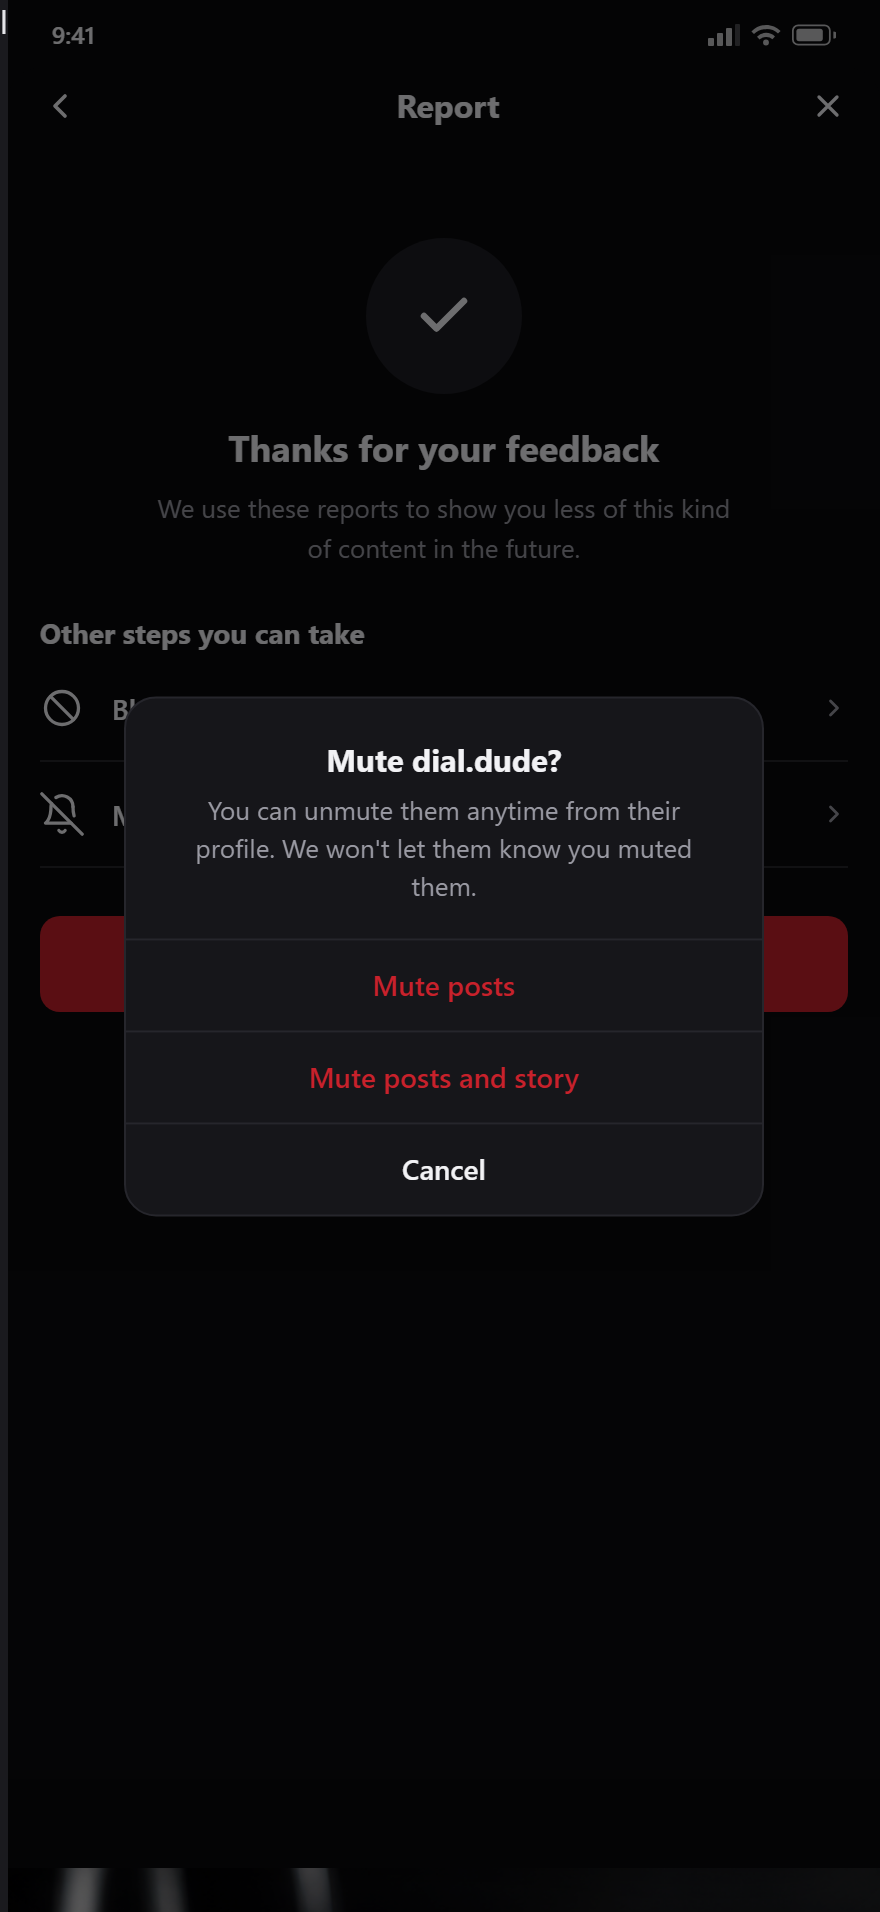
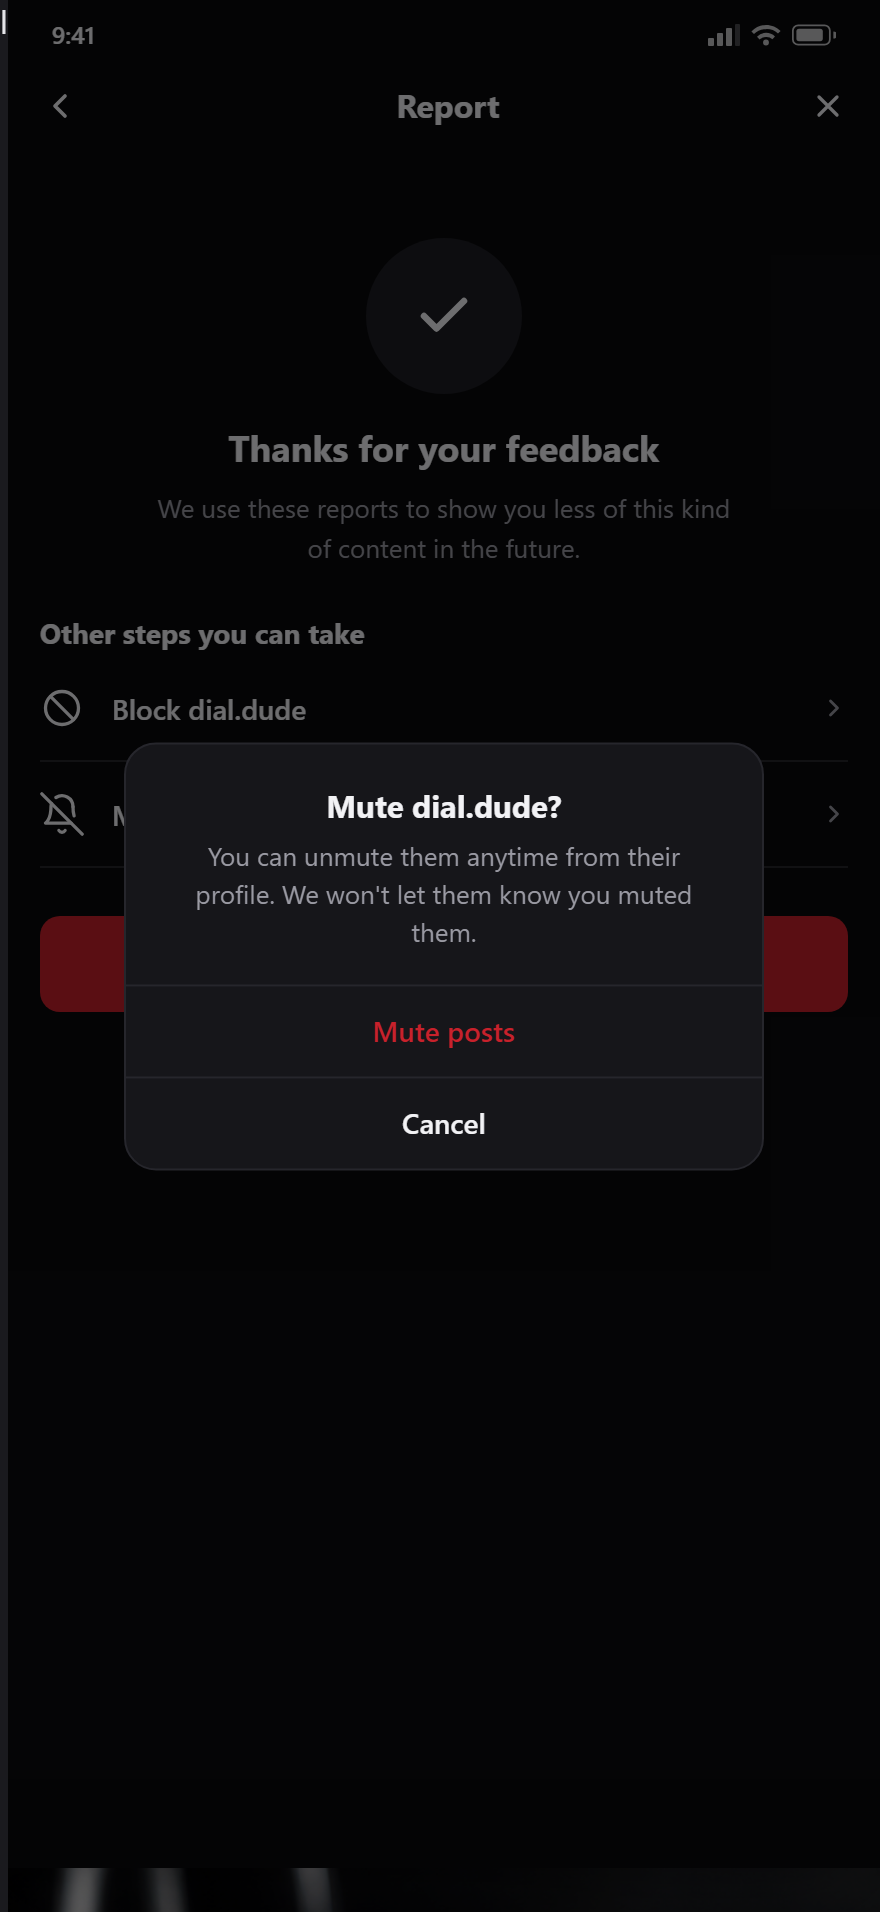
feat(PROFILE-005): report nav IG-style — Select-a-post picker, X closes flow, < slides back
- Mute dialog back to single "Mute posts" option (no story in TukDaeng)
- "Select a post to report": < back + X + radio circles on tiles + Next
  button (disabled until a post is picked), per latest IG reference
- X now closes the whole report stack back to the profile/feed that
  opened the '...' menu; '<' pops one step — current page slides out
  right while the previous page stays underneath (rpPush/rpBack/rpClose
  + .pg-ghost under/exit clones)
- _verify_pfm 59/59 PASS; _verify_profile/_pfl/_pfg/_pfp 0 failed,
  0 console errors

Generated with [Devin](https://devin.ai)

Changed region(s): [[0.2148, 0.3703, 0.767, 0.6172], [0.1227, 0.3703, 0.1841, 0.4012]]

diff --git a/Prototypes/fo-flow/index.html b/Prototypes/fo-flow/index.html
@@ -1526,6 +1526,17 @@ l<!DOCTYPE html>
   /* nav-tab swap (IG behavior) — bottom-nav pages replace instantly, no slide */
   .page-sub.pg-swap { transition: none; }
   .screen.sub-open .page-sub.pg-swap { animation: none; }
+  /* report stack illusion (IG): a cloned page keeps the previous view visible
+     while the new page slides in on top / the popped page slides out */
+  .screen .pg-ghost {
+    position: absolute; top: 34px; bottom: 22px; left: 0; right: 0;
+    background: var(--bg); transform: none; animation: none;
+    pointer-events: none; z-index: 31;
+  }
+  .screen .pg-ghost.pg-out-r { animation: pgOut .3s ease forwards; z-index: 33; }
+  .screen .pg-ghost.pg-out-d { animation: pgDown .3s ease forwards; z-index: 33; }
+  @keyframes pgOut { to { transform: translateX(100%); } }
+  @keyframes pgDown { to { transform: translateY(110%); } }
   .sub-scroll { flex: 1; overflow-y: auto; scrollbar-width: none; }
   .sub-scroll::-webkit-scrollbar { display: none; }
   /* ============ POST VIEWER (IG search-result viewer — vertical swipe through results) ============ */
@@ -1913,6 +1924,20 @@ l<!DOCTYPE html>
   .rp-step .pm-chev { color: var(--muted); display: flex; flex-shrink: 0; }
   .rp-step .rp-ck { color: #3ddc84; display: flex; flex-shrink: 0; } /* IG: green check on completed steps */
   .rp-step[disabled] { cursor: default; }
+  /* Select a post — radio circle on each tile + pinned Next bar (IG) */
+  .pf-tile.rp-tile { position: relative; }
+  .rp-sel {
+    position: absolute; top: 8px; right: 8px; width: 22px; height: 22px;
+    border-radius: 50%; border: 2px solid #fff; background: rgba(0,0,0,.35);
+    display: flex; align-items: center; justify-content: center; color: #fff;
+  }
+  .rp-tile.on .rp-sel { background: var(--red); border-color: var(--red); }
+  .rp-next {
+    flex-shrink: 0; margin: 8px 14px 14px; border: none; border-radius: 10px;
+    padding: 14px; background: var(--red); color: #fff;
+    font-family: var(--font-main); font-size: 14.5px; font-weight: 600; cursor: pointer;
+  }
+  .rp-next[disabled] { opacity: .45; cursor: default; }
   .rp-done {
     width: 100%; border: none; border-radius: 10px; padding: 14px; margin-top: 24px;
     background: var(--red); color: #fff; font-family: var(--font-main);
@@ -4946,7 +4971,6 @@ function muteDlgHTML(seller) {
     <div class="dlg-q">Mute ${seller}?</div>
     <div class="dlg-desc">You can unmute them anytime from their profile. We won't let them know you muted them.</div>
     <button class="dlg-btn danger dlg-mute-go">Mute posts</button>
-    <button class="dlg-btn danger dlg-mute-go">Mute posts and story</button>
     <button class="dlg-btn dlg-cancel">Cancel</button>`;
 }
 function resetDlgHTML() {
@@ -4978,7 +5002,7 @@ function renderSub(scr) {
   const oldBar = el.querySelector(".pf-tabs");
   if (oldBar) scr._pfTabSl = oldBar.scrollLeft; /* keep tab-bar position across re-renders */
   el.innerHTML = subHTML(st[st.length - 1], scr);
-  el.classList.toggle("pg-up", (st[st.length - 1] || "").startsWith("report"));
+  el.classList.toggle("pg-up", (st[st.length - 1] || "").startsWith("report:pick")); /* only the picker slides up — deeper report pages slide from the right */
   el.classList.toggle("pg-swap", !!scr._subSwap);
   const q = el.querySelector(".sr-q, .svd-q");
   if (q) { q.focus(); q.setSelectionRange(q.value.length, q.value.length); }
@@ -5013,6 +5037,48 @@ function subBack(scr) {
   }
   st.pop();
   if (st.length) renderSub(scr);
+  else scr.classList.remove("sub-open");
+}
+/* PROFILE-005 — report pages navigate like IG: a new page slides in from the
+   right while the previous one stays put underneath (ghost clone), "<" slides
+   the current page back out the same way, "X" closes the whole report stack */
+function rpPush(scr, name) {
+  const el = scr.querySelector(".page-sub");
+  if ((scr._subStack || []).length) {
+    const g = el.cloneNode(true);
+    g.className = "pg-ghost"; /* own class — keeps selectors/queries on the real page clean */
+    el.insertAdjacentElement("afterend", g);
+    setTimeout(() => g.remove(), 340);
+  }
+  pushSub(scr, name);
+  el.style.animation = "none"; void el.offsetWidth; el.style.animation = ""; /* restart slide-in */
+}
+function rpBack(scr) {
+  const st = scr._subStack || [];
+  if (st.length > 1) {
+    const el = scr.querySelector(".page-sub");
+    const g = el.cloneNode(true);
+    g.className = "pg-ghost pg-out-r"; /* exiting page rides on top */
+    el.insertAdjacentElement("afterend", g);
+    setTimeout(() => g.remove(), 340);
+    st.pop();
+    scr._subSwap = true; renderSub(scr); scr._subSwap = false; /* previous page stays put — no re-slide */
+  } else {
+    st.pop();
+    scr.classList.remove("sub-open"); /* last page slides itself out via the resting transform */
+  }
+}
+function rpClose(scr) {
+  const el = scr.querySelector(".page-sub");
+  if (scr.classList.contains("sub-open")) {
+    const g = el.cloneNode(true);
+    g.className = "pg-ghost " + (el.classList.contains("pg-up") ? "pg-out-d" : "pg-out-r");
+    el.insertAdjacentElement("afterend", g);
+    setTimeout(() => g.remove(), 340);
+  }
+  const st = scr._subStack || [];
+  while (st.length && (st[st.length - 1] || "").startsWith("report")) st.pop(); /* keep whatever opened the report flow (profile etc.) */
+  if (st.length) { scr._subSwap = true; renderSub(scr); scr._subSwap = false; }
   else scr.classList.remove("sub-open");
 }
 function subPostRows(posts, label, cls) {
@@ -6944,7 +7010,7 @@ function subHTML(name, scr) {
   if (name === "ni") return head("Not interested") + `<div class="sub-scroll">${subPostRows(POSTS.filter(p => p.ni), "Restore", "m-restore")}</div>`;
   /* full-page report view (IG-style) — opened from "..." menu or the uncomfortable ack card */
   if (name === "report" || name === "report:user") return `
-    <div class="detail-head rp-head"><span class="detail-title">Report</span><button class="icon-btn rp-x sub-x">${I.x(18)}</button></div>
+    <div class="detail-head rp-head"><button class="icon-btn rp-back sub-back">${I.back(20)}</button><span class="detail-title">Report</span><button class="icon-btn rp-x sub-x">${I.x(18)}</button></div>
     <div class="pm-rp-scroll">
       <div class="pm-rp-q">Why are you reporting this ${name === "report:user" ? "account" : "post"}?</div>
       <div class="pm-rp-desc">Your report is anonymous. If someone is in immediate danger, call the local emergency services - don't wait.</div>
@@ -6986,15 +7052,16 @@ function subHTML(name, scr) {
       <button class="rp-done">Done</button>
     </div>`;
   }
-  /* pick one of their posts -> post reasons */
+  /* pick one of their posts -> Next -> post reasons (IG: radio circle + pinned Next) */
   if (name.startsWith("report:posts:")) {
-    const u = name.slice(13);
+    const u = name.slice(13), sel = scr._rpSel || "";
     return `
-    <div class="detail-head rp-head"><span class="detail-title">Select a post to report</span><button class="icon-btn rp-x sub-x">${I.x(18)}</button></div>
-    <div class="pm-rp-scroll" style="padding:0 0 28px">
+    <div class="detail-head rp-head"><button class="icon-btn rp-back sub-back">${I.back(20)}</button><span class="detail-title">Select a post</span><button class="icon-btn rp-x sub-x">${I.x(18)}</button></div>
+    <div class="pm-rp-scroll" style="padding:0 0 8px">
       <div class="pf-grid">${pfTabPosts(u, "all").map(p => `
-        <button class="pf-tile rp-tile" data-pid="${p.id}"><img src="${p.photos[0]}" alt="" loading="lazy"></button>`).join("")}</div>
-    </div>`;
+        <button class="pf-tile rp-tile${sel === p.id ? " on" : ""}" data-pid="${p.id}"><img src="${p.photos[0]}" alt="" loading="lazy"><span class="rp-sel">${sel === p.id ? I.check(12) : ""}</span></button>`).join("")}</div>
+    </div>
+    <button class="rp-next"${sel ? "" : " disabled"}>Next</button>`;
   }
 
   /* PROFILE-001 — profile pages stack like any other sub page */
@@ -7754,8 +7821,8 @@ document.getElementById("stage").addEventListener("click", e => {
   const rpOpt = e.target.closest(".rp-opt");
   if (rpOpt) {
     const scr = rpOpt.closest(".screen"), u = rpOpt.dataset.u;
-    if (rpOpt.dataset.rp === "acct") pushSub(scr, "report:user");
-    else pushSub(scr, "report:" + rpOpt.dataset.rp + ":" + u);
+    if (rpOpt.dataset.rp === "acct") rpPush(scr, "report:user");
+    else { scr._rpSel = ""; rpPush(scr, "report:" + rpOpt.dataset.rp + ":" + u); }
     return;
   }
   /* PROFILE-005 — picking a reason opens the IG "Thanks for your feedback" page
@@ -7764,7 +7831,7 @@ document.getElementById("stage").addEventListener("click", e => {
   if (pmDone) {
     const scr = pmDone.closest(".screen");
     const u = scr.dataset.rpUser || "";
-    if (u) { pushSub(scr, "report:done:" + u); return; }
+    if (u) { rpPush(scr, "report:done:" + u); return; }
     scr.classList.remove("pm-open", "sub-open");
     scr._subStack = [];
     toast("Report submitted · thanks for letting us know");
@@ -7899,8 +7966,15 @@ document.getElementById("stage").addEventListener("click", e => {
   if (setBtn) { openSub(setBtn.closest(".screen"), "settings"); return; }
   const subNav = e.target.closest("[data-sub]");
   if (subNav) { pushSub(subNav.closest(".screen"), subNav.dataset.sub); return; }
-  const subBk = e.target.closest(".sub-back, .sub-x");
-  if (subBk) { subBack(subBk.closest(".screen")); return; }
+  const subBk = e.target.closest(".sub-back");
+  if (subBk) {
+    const scr = subBk.closest(".screen");
+    if (((scr._subStack || []).at(-1) || "").startsWith("report")) rpBack(scr); /* report pages slide back out right */
+    else subBack(scr);
+    return;
+  }
+  const subX = e.target.closest(".sub-x");
+  if (subX) { rpClose(subX.closest(".screen")); return; } /* X closes the whole report stack, keeping the page that opened it */
   const subReset = e.target.closest('[data-dlg="reset"]');
   if (subReset) { openDlg(subReset.closest(".screen"), resetDlgHTML()); return; }
   const sens = e.target.closest("[data-sens]");
@@ -8203,8 +8277,9 @@ document.getElementById("stage").addEventListener("click", e => {
   const pfTile = e.target.closest(".pf-tile");
   if (pfTile) {
     const scr = pfTile.closest(".screen");
-    if (pfTile.classList.contains("rp-tile")) { /* PROFILE-005 — report post picker -> post reasons */
-      pushSub(scr, "report");
+    if (pfTile.classList.contains("rp-tile")) { /* PROFILE-005 — select a post to report: pick then Next (IG) */
+      scr._rpSel = pfTile.dataset.pid;
+      scr._subSwap = true; renderSub(scr); scr._subSwap = false; /* mark in place, no re-slide */
       return;
     }
     const parts = ((scr._subStack || []).at(-1) || "").split(":");
@@ -8356,7 +8431,7 @@ document.getElementById("stage").addEventListener("click", e => {
     const scr = pfShReport.closest(".screen");
     scr.classList.remove("pm-open");
     scr.dataset.rpUser = pfShReport.dataset.u;
-    pushSub(scr, "report:pick:" + pfShReport.dataset.u); /* IG picker first, then reasons */
+    rpPush(scr, "report:pick:" + pfShReport.dataset.u); /* IG picker first, then reasons */
     return;
   }
   /* PROFILE-005 — Block -> IG confirm sheet; when already blocked the same row
@@ -8386,7 +8461,7 @@ document.getElementById("stage").addEventListener("click", e => {
     const subTop = (scr._subStack || []).at(-1) || "";
     if (subTop === "profile:" + u || subTop === "report:done:" + u) renderSub(scr);
     scrToast(scr, "Blocking"); /* IG flashes this transient toast */
-    if (blkGo.classList.contains("blk-rp")) { scr.dataset.rpUser = u; pushSub(scr, "report:pick:" + u); }
+    if (blkGo.classList.contains("blk-rp")) { scr.dataset.rpUser = u; rpPush(scr, "report:pick:" + u); }
     return;
   }
   /* PROFILE-005 — "Thanks for your feedback" steps: real actions only.
@@ -8404,11 +8479,16 @@ document.getElementById("stage").addEventListener("click", e => {
     else if (act === "unmute") { pfSetMuted(scr, u, false); dn.delete(u + "|mute"); scrToast(scr, "Unmuted"); renderSub(scr); }
     return;
   }
+  const rpNext = e.target.closest(".rp-next");
+  if (rpNext) {
+    if (rpNext.disabled) return;
+    rpPush(rpNext.closest(".screen"), "report"); /* selected post -> post reasons */
+    return;
+  }
   const rpDone = e.target.closest(".rp-done");
   if (rpDone) {
     const scr = rpDone.closest(".screen");
-    scr.classList.remove("pm-open", "sub-open");
-    scr._subStack = [];
+    rpClose(scr); /* same as X — closes the report stack, keeps the profile below */
     scrToast(scr, "Report submitted · thanks for letting us know");
     return;
   }
